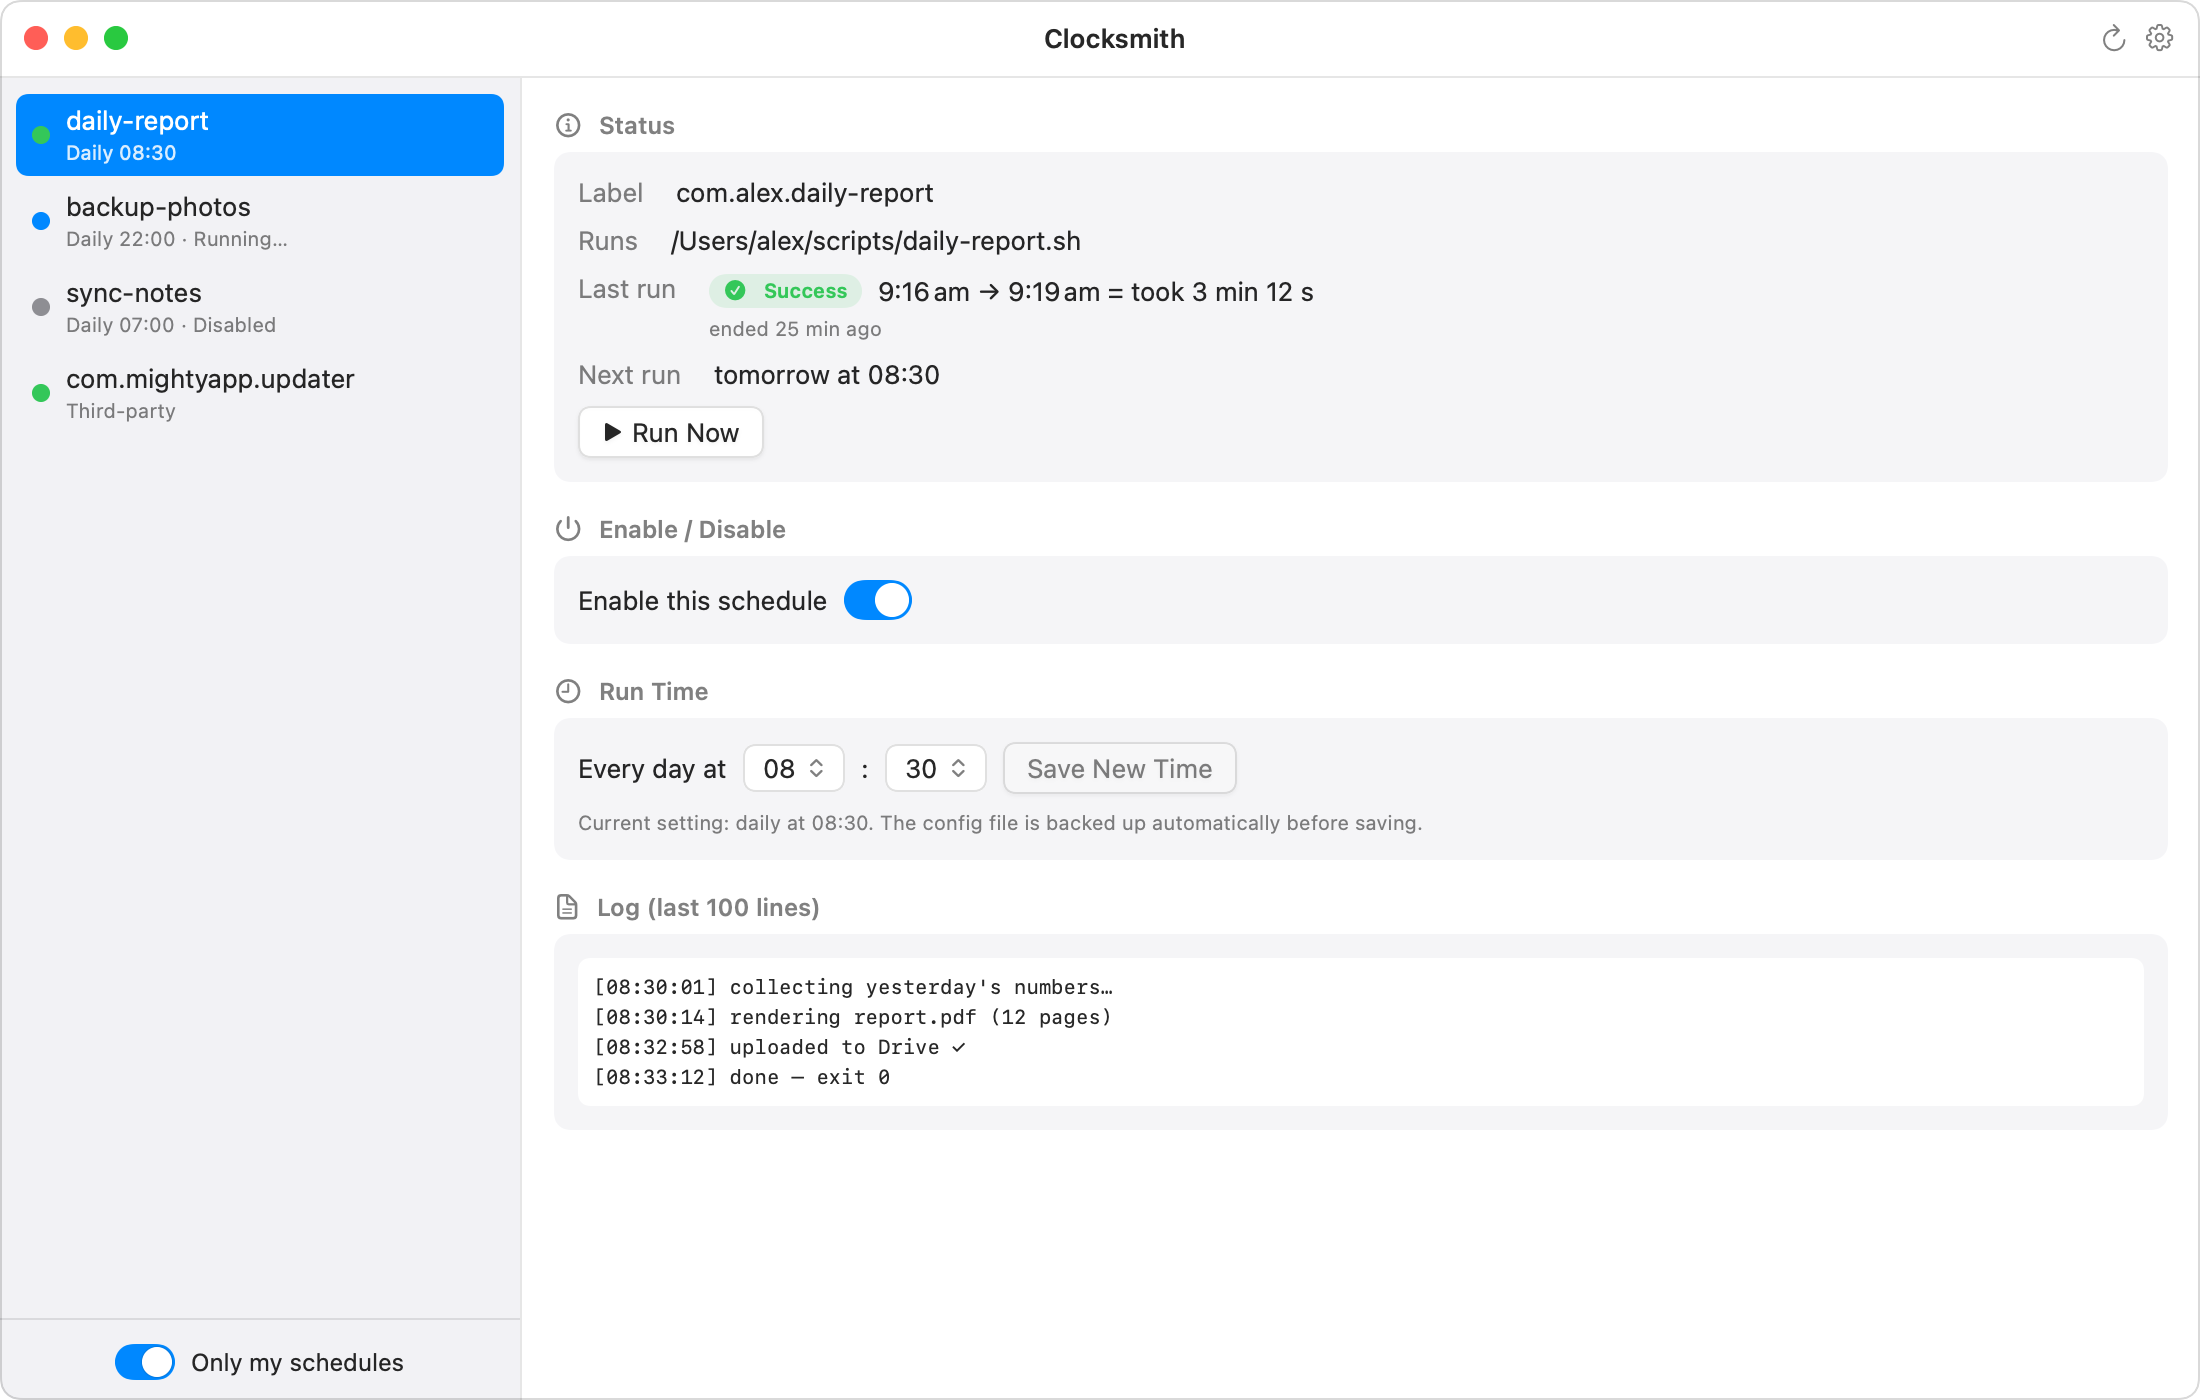
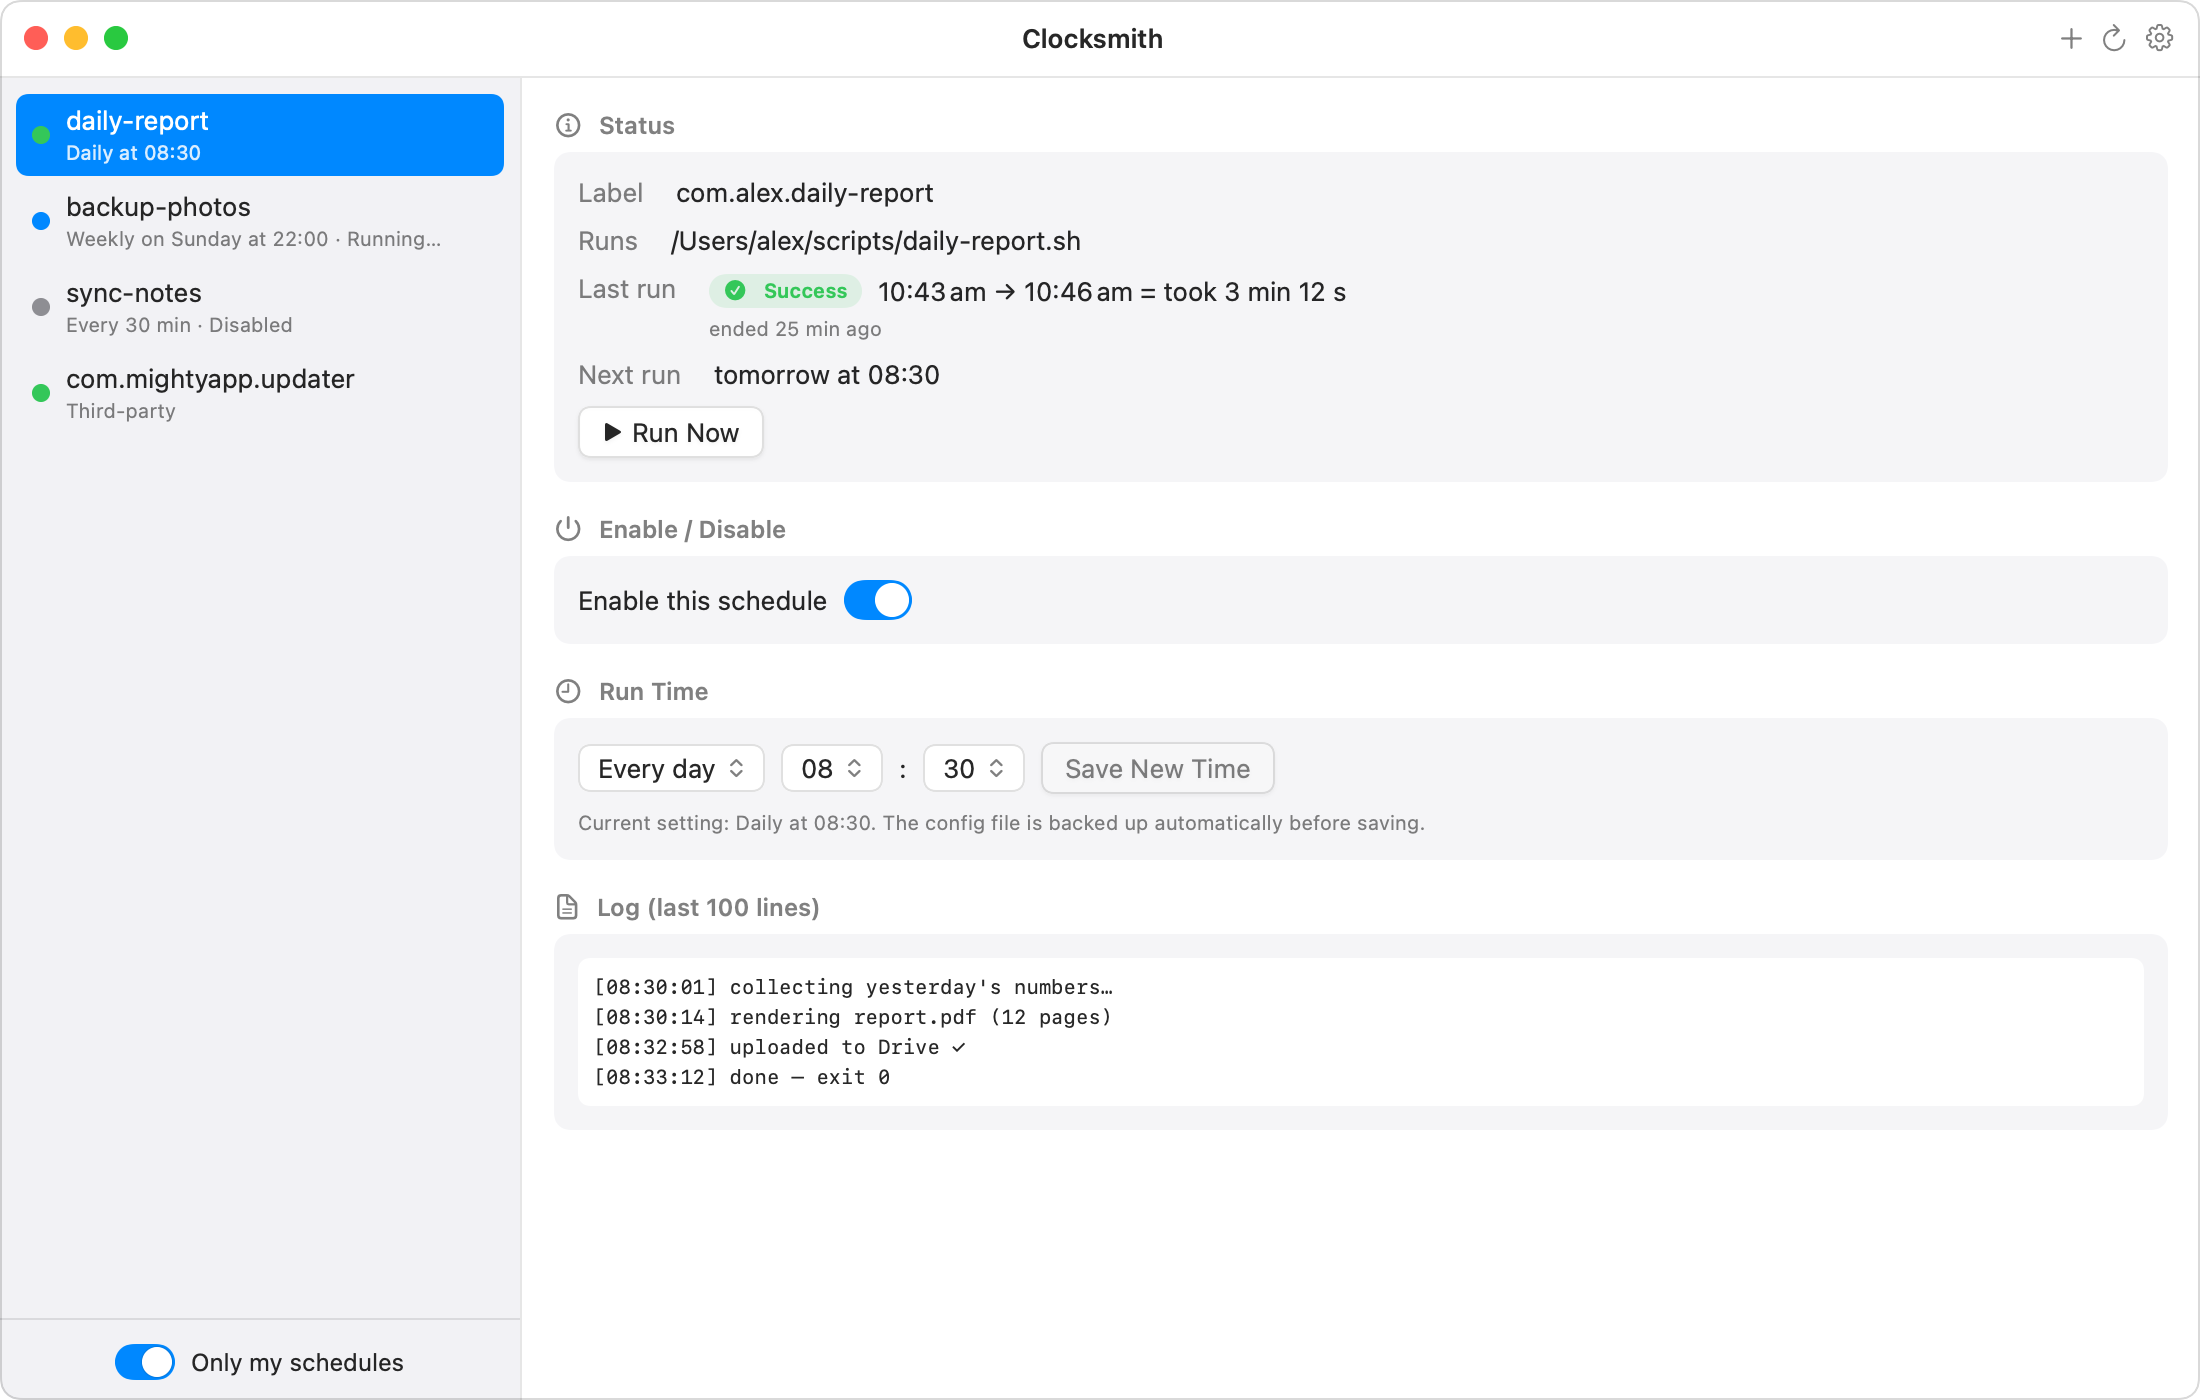
1.2.0: trial/license copy, refreshed screenshots

diff --git a/index.html b/index.html
@@ -10,12 +10,12 @@
 <meta property="og:type" content="website">
 <meta property="og:site_name" content="Clocksmith">
 <meta property="og:title" content="Clocksmith — see every scheduled job on your Mac">
-<meta property="og:description" content="Know when each scheduled job last ran and whether it succeeded. Run, pause, or reschedule without the Terminal. $4.99 one-time, notarized, zero telemetry.">
+<meta property="og:description" content="Know when each scheduled job last ran and whether it succeeded. Run, pause, or reschedule without the Terminal. Free 7-day trial, then $4.99 one-time. Notarized, zero telemetry.">
 <meta property="og:url" content="https://shawnchiao.github.io/clocksmith/">
 <meta property="og:image" content="https://shawnchiao.github.io/clocksmith/assets/screenshot-en.png">
 <meta name="twitter:card" content="summary_large_image">
 <meta name="twitter:title" content="Clocksmith — see every scheduled job on your Mac">
-<meta name="twitter:description" content="Know when each scheduled job last ran and whether it succeeded. Run, pause, or reschedule without the Terminal. $4.99 one-time, notarized, zero telemetry.">
+<meta name="twitter:description" content="Know when each scheduled job last ran and whether it succeeded. Run, pause, or reschedule without the Terminal. Free 7-day trial, then $4.99 one-time. Notarized, zero telemetry.">
 <meta name="twitter:image" content="https://shawnchiao.github.io/clocksmith/assets/screenshot-en.png">
 <script type="application/ld+json">
 {
@@ -118,10 +118,10 @@
     Clocksmith 都讓你一目了然：上次幾點跑的、成功還是失敗，
     還能隨時手動執行、暫停，或直接改時間。全程不用碰終端機。
   </p>
-  <a class="cta" href="#buy" data-en>Buy for $4.99</a>
-  <a class="cta" href="#buy" data-zh>立即購買 US$4.99</a>
-  <span class="cta-sub" data-en>One-time purchase · macOS 14+ · Notarized by Apple</span>
-  <span class="cta-sub" data-zh>一次買斷・macOS 14 以上・已通過 Apple 公證</span>
+  <a class="cta" href="#buy" data-en>Try free for 7 days</a>
+  <a class="cta" href="#buy" data-zh>免費試用 7 天</a>
+  <span class="cta-sub" data-en>Full-featured trial, no signup · then $4.99 one-time · macOS 14+ · Notarized by Apple</span>
+  <span class="cta-sub" data-zh>試用功能全開、免註冊・之後 US$4.99 一次買斷・macOS 14 以上・已通過 Apple 公證</span>
 
   <div class="shot">
     <img data-en src="assets/screenshot-en.png" alt="Clocksmith screenshot">
@@ -145,8 +145,8 @@
     </div>
     <div class="feature"><div class="emoji">▶</div>
       <h3 data-en>Run, pause, reschedule</h3><h3 data-zh>想跑就跑，想改就改</h3>
-      <p data-en>Run a job now, toggle it on/off, or change its daily run time — with automatic config backup before every change.</p>
-      <p data-zh>立即執行、一鍵開關、直接調整每天的執行時間——而且每次修改前都會自動備份設定檔，改壞了也救得回來。</p>
+      <p data-en>Create a new job in one small form, run it now, toggle it on/off, or reschedule it (daily / weekly / every N minutes) — with automatic config backup before every change.</p>
+      <p data-zh>用一張小表單就能建立新排程；也能立即執行、一鍵開關、改成每天／每週／每 N 分鐘執行——每次修改前都會自動備份設定檔，改壞了也救得回來。</p>
     </div>
     <div class="feature"><div class="emoji">🛡</div>
       <h3 data-en>Safe by design</h3><h3 data-zh>安全擺第一</h3>
@@ -162,14 +162,15 @@
   <div class="price-card">
     <div class="price">$4.99 <small data-en>one-time</small><small data-zh>一次買斷</small></div>
     <ul>
+      <li data-en>✓ Free 7-day trial, full-featured</li><li data-zh>✓ 免費試用 7 天，功能全開</li>
       <li data-en>✓ All features, no subscription</li><li data-zh>✓ 功能全開，沒有訂閱制</li>
       <li data-en>✓ Signed &amp; notarized by Apple</li><li data-zh>✓ Apple 簽名＋公證</li>
       <li data-en>✓ Free updates for 1.x</li><li data-zh>✓ 1.x 版本免費更新</li>
     </ul>
     <a class="cta" href="https://clocksmith.lemonsqueezy.com/checkout/buy/fce3dfb7-a279-4c83-b338-1345bd58d158?discount=0" data-en>Buy Clocksmith</a>
     <a class="cta" href="https://clocksmith.lemonsqueezy.com/checkout/buy/fce3dfb7-a279-4c83-b338-1345bd58d158?discount=0" data-zh>購買 Clocksmith</a>
-    <span class="cta-sub" data-en>Secure checkout &amp; instant download via Lemon Squeezy</span>
-    <span class="cta-sub" data-zh>由 Lemon Squeezy 安全結帳，付款後馬上下載</span>
+    <span class="cta-sub" data-en>Secure checkout via Lemon Squeezy — your license key arrives by email. Download the app free and start the trial anytime.</span>
+    <span class="cta-sub" data-zh>由 Lemon Squeezy 安全結帳，序號寄到你的信箱。App 可先免費下載、隨時開始試用。</span>
   </div>
 </section>
 
@@ -189,13 +190,18 @@
     </details>
     <details>
       <summary><span data-en>Does it collect any data?</span><span data-zh>會收集我的資料嗎？</span></summary>
-      <p data-en>No. Clocksmith has no analytics, no network calls, no account. Everything stays on your Mac.</p>
-      <p data-zh>完全不會。沒有任何追蹤分析、不連網、也不用註冊帳號。所有東西都只留在你的 Mac 上。</p>
+      <p data-en>No. Clocksmith has no analytics and no account. The only network request it ever makes is a one-time license activation when you enter your key — the free trial makes zero network calls. Everything else stays on your Mac.</p>
+      <p data-zh>完全不會。沒有任何追蹤分析、也不用註冊帳號。它唯一會連網的一次，是你輸入序號時的啟用驗證——試用期間完全不連網。其他所有東西都只留在你的 Mac 上。</p>
     </details>
     <details>
       <summary><span data-en>Can it edit any schedule?</span><span data-zh>所有排程都能編輯嗎？</span></summary>
-      <p data-en>It edits simple daily (HH:MM) schedules safely, with automatic backups. Complex configurations (file watchers, multiple times) are shown read-only rather than risk breaking them.</p>
-      <p data-zh>單純「每天幾點幾分」的排程可以放心編輯（改之前會自動備份）。比較複雜的設定——像監看檔案變化、一天跑好幾次——會以唯讀方式顯示，避免不小心改壞。</p>
+      <p data-en>It creates and edits daily, weekly, and every-N-minutes schedules safely, with automatic backups. Anything it can't rewrite losslessly (file watchers, multiple times a day, monthly rules) is shown read-only rather than risk breaking it.</p>
+      <p data-zh>每天、每週、每 N 分鐘的排程都能放心建立與編輯（改之前會自動備份）。無法完整保留原設定的（監看檔案變化、一天多個時段、按月排程）會以唯讀方式顯示，避免不小心改壞。</p>
+    </details>
+    <details>
+      <summary><span data-en>What happens when the trial ends?</span><span data-zh>試用期結束會怎樣？</span></summary>
+      <p data-en>The app goes read-only: you can still see every schedule and its current status — we never hold your schedules hostage (they keep running; macOS runs them, not us). Running, editing, creating, run history, and log viewing unlock with a license.</p>
+      <p data-zh>App 會變成唯讀：排程清單和目前狀態永遠看得到——我們絕不綁架你的排程（排程本來就由 macOS 執行，不會因此停擺）。立即執行、修改、建立、執行歷史和 log 檢視，輸入序號後解鎖。</p>
     </details>
     <details>
       <summary><span data-en>System requirements?</span><span data-zh>系統需求？</span></summary>
